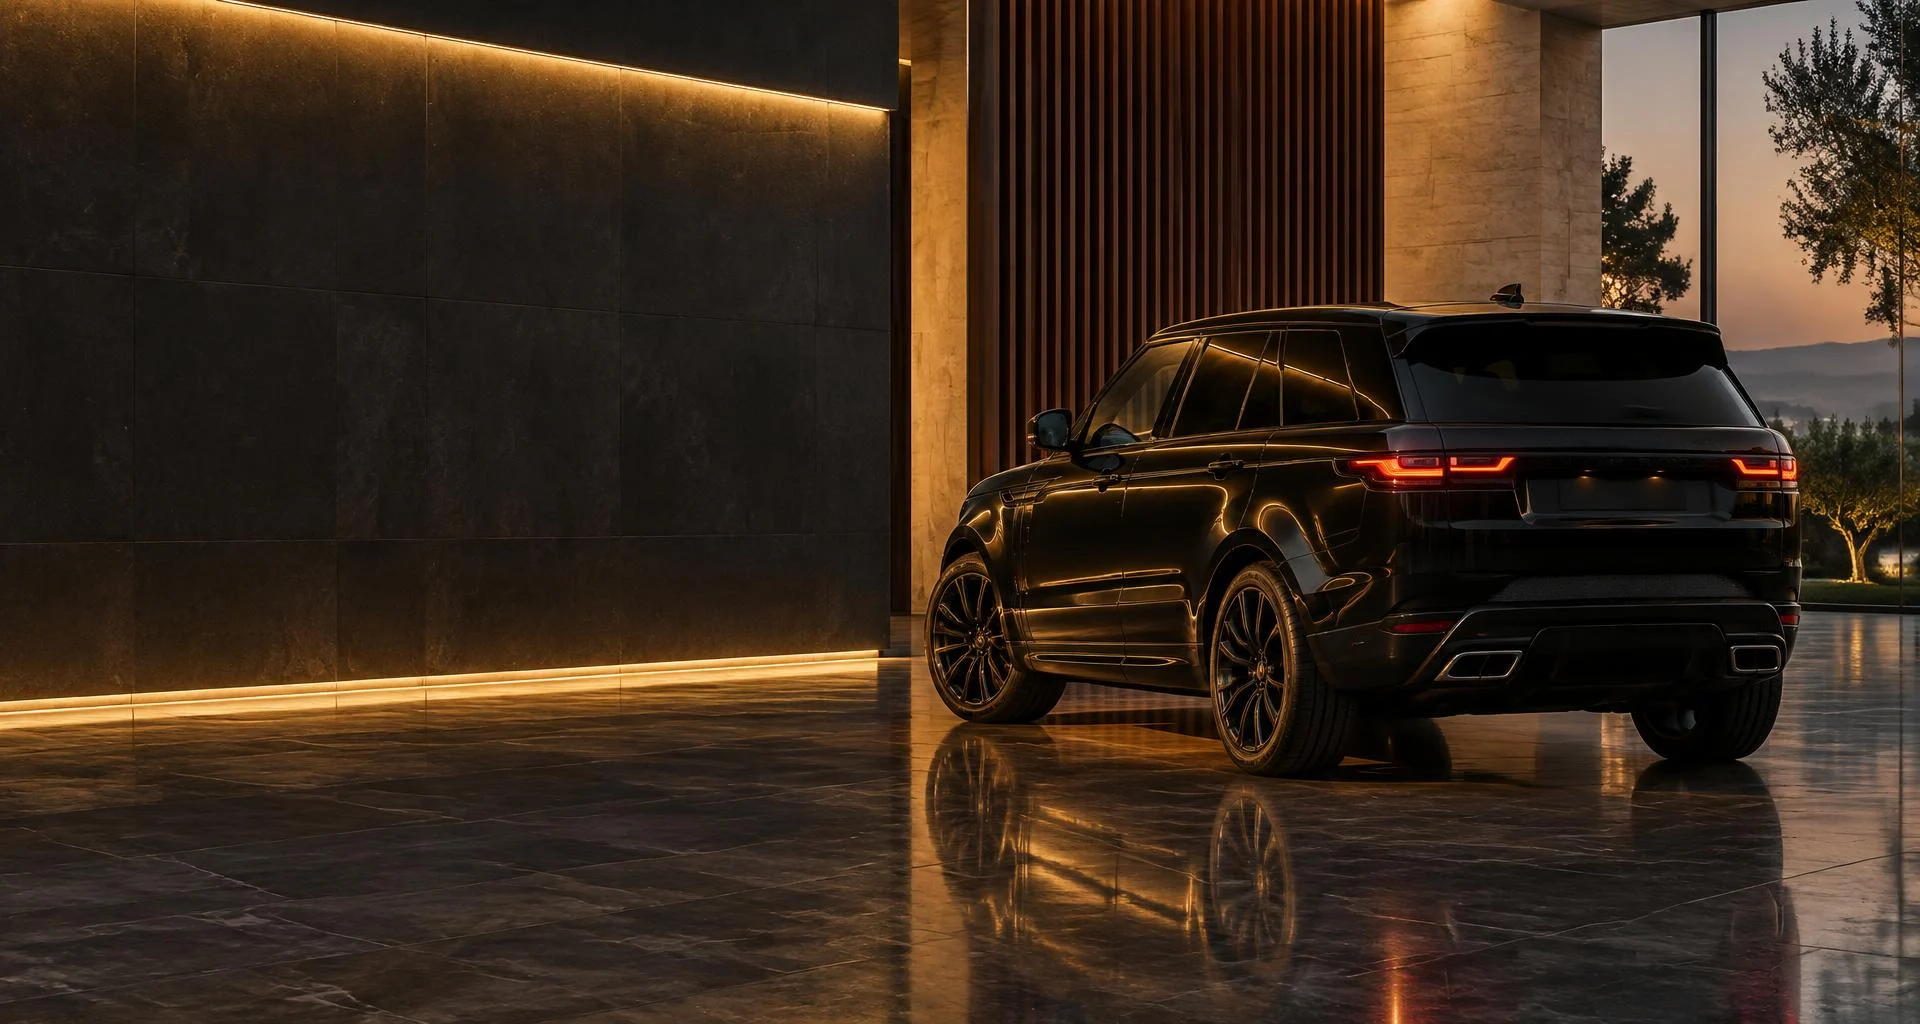
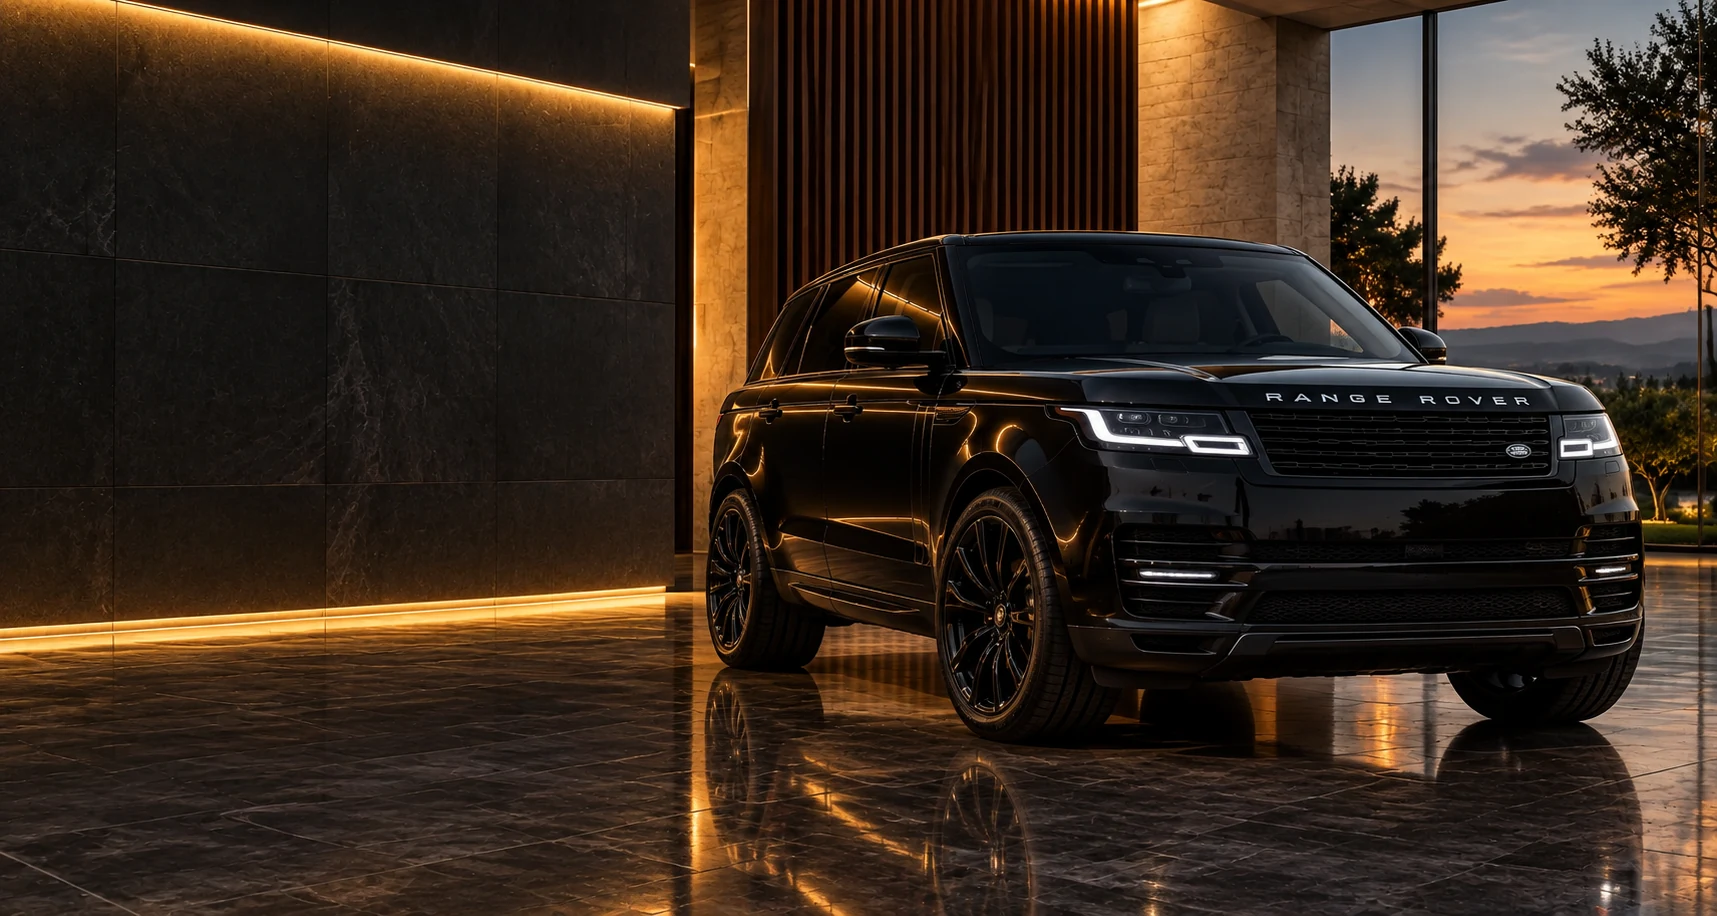
Troca a imagem do topo pela nova foto do Range Rover
Claude-Session: https://claude.ai/code/session_011PHzv9j5Ka2AmrorDL8tzw

diff --git a/src/components/auto/sections.tsx b/src/components/auto/sections.tsx
@@ -8,7 +8,7 @@ import { Logo } from './logo';
 import { contact, whatsappLink } from '@/lib/contact';
 
 export function Hero() {
- return <section className="hero"><img className="hero-image" src={showroom} alt="Range Rover preto em showroom com iluminação quente e piso de pedra" width="1920" height="1024" fetchPriority="high" /><div className="hero-shade" /><div className="content-width hero-content"><p className="eyebrow"><span /> Boutique de Soluções Automotivas</p><h1>Seu próximo<br /><strong>movimento,</strong><br />bem conduzido.</h1><div className="hero-pillars"><span>Compra</span><i /><span>Venda</span><i /><span>Assessoria</span></div><div className="hero-actions"><Button asChild className="light-button"><Link to="/estoque">Ver estoque <ArrowUpRight /></Link></Button><Button asChild variant="ghost" className="consultant-button"><Link to="/contato">Falar com consultor <ArrowRight /></Link></Button></div></div><div className="hero-bottom content-width"><span>Automóveis. Pessoas. Soluções.</span><a href="#vitrine" aria-label="Conhecer a seleção de veículos"><ArrowDown /></a></div></section>;
+ return <section className="hero"><img className="hero-image" src={showroom} alt="Range Rover preto em showroom com iluminação quente e piso de pedra" width="1717" height="916" fetchPriority="high" /><div className="hero-shade" /><div className="content-width hero-content"><p className="eyebrow"><span /> Boutique de Soluções Automotivas</p><h1>Seu próximo<br /><strong>movimento,</strong><br />bem conduzido.</h1><div className="hero-pillars"><span>Compra</span><i /><span>Venda</span><i /><span>Assessoria</span></div><div className="hero-actions"><Button asChild className="light-button"><Link to="/estoque">Ver estoque <ArrowUpRight /></Link></Button><Button asChild variant="ghost" className="consultant-button"><Link to="/contato">Falar com consultor <ArrowRight /></Link></Button></div></div><div className="hero-bottom content-width"><span>Automóveis. Pessoas. Soluções.</span><a href="#vitrine" aria-label="Conhecer a seleção de veículos"><ArrowDown /></a></div></section>;
 }
 export function SectionHeading({ eyebrow, first, bold }: { eyebrow: string; first: string; bold: string }) { return <div className="section-heading"><p className="eyebrow">{eyebrow}</p><h2>{first} <strong>{bold}</strong></h2><span className="gold-line" /></div>; }
 export function Stock({ full = false }: { full?: boolean }) {
